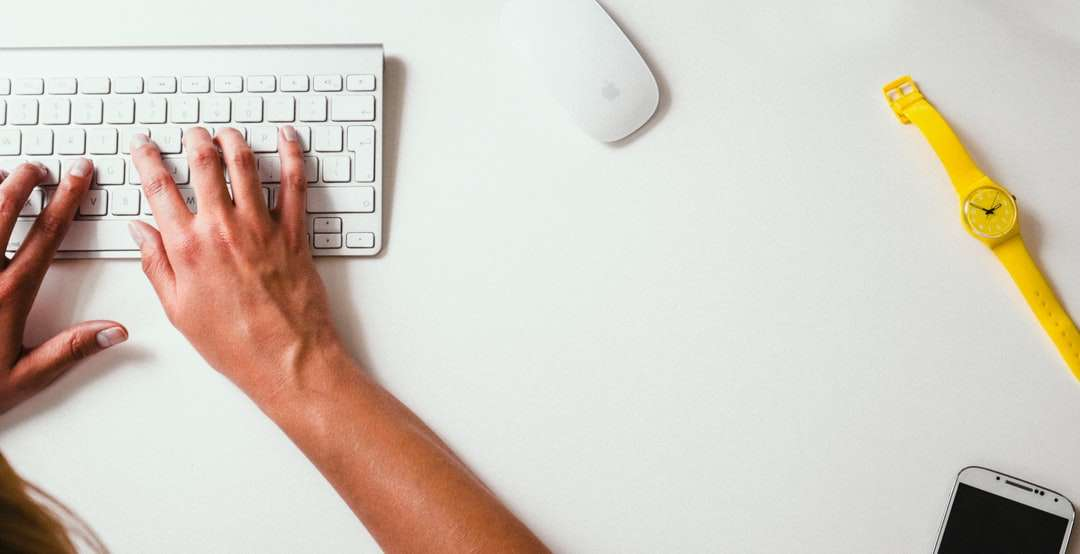
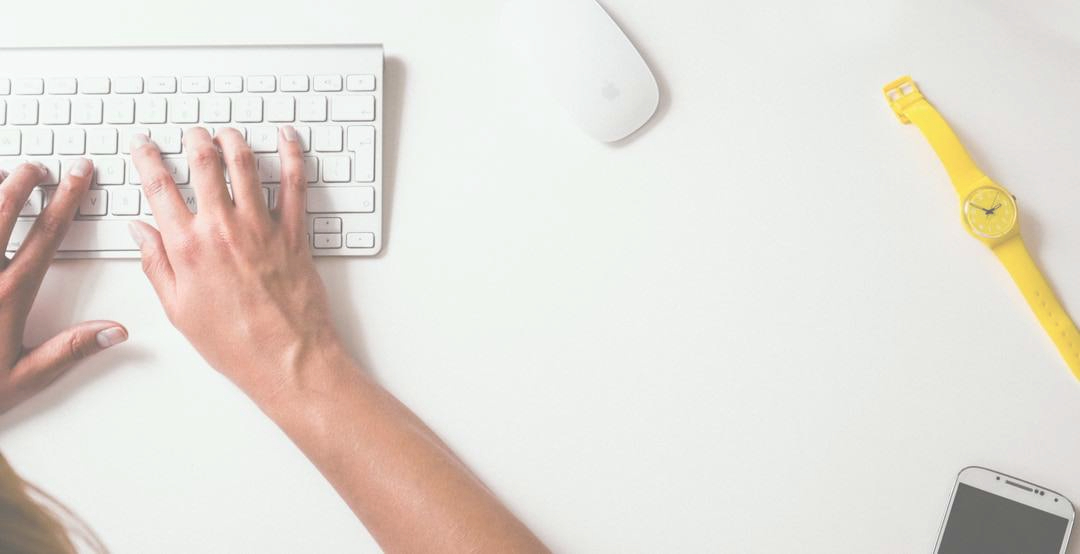
cambios en la estructura del grid de la page nosotros mas cambios en el css y cambio en la imagen de fondo de la page contacto

diff --git a/css/style.css b/css/style.css
@@ -331,7 +331,6 @@ h3 {
 .conteiner-contact {
     background-image: url(../img/contactanos.jpg);
     background-size: cover;
-    opacity: 0.8;
     width: 100%;
     height: 100%;
 }
@@ -579,44 +578,27 @@ td {
 
 /*Page Novedades*/
 
-.novedades-tittle{
-    background-color: #F0F0F0;
-    display: flex;
-    justify-content: center;
-    padding: 2rem 0;
-    box-shadow: inset 0 0 15px 0 #aaadaf;
-}
-
 .novedades {
     display: grid;
     grid-template-columns: repeat(2, 1fr);
-    grid-template-rows: repeat(2, 1fr);
+    grid-template-rows: 4rem 1fr 1fr;
     background-image: url(../img/novedadesfondo.jpg);
 }
 
+.novedades-rotulo{
+    background-color: #F5F5F5;
+    border-radius: 10px;
+    padding: 0.5rem 1rem;
+}
+
+.novedades-tittle{
+    grid-area: 1 / 1 / 2 / 3; 
+    display: flex;
+    justify-content: center;
+    padding: 2rem 0;
+}
+
 .novedades-item1{
-    grid-area: 1 / 1 / 2 / 2; 
-    display: grid;
-    justify-content: center;
-    padding: 1rem 0;
-    background-color: white;
-    margin: 5rem;
-    border-radius: 10px;
-    border: 1px solid white;
-}
-
-.novedades-item2{
-    grid-area: 1 / 2 / 2 / 3;
-    display: grid;
-    justify-content: center;
-    padding: 1rem 0;
-    margin: 5rem;
-    background-color: white;
-    border-radius: 10px;
-    border: 1px solid white;
-}
-
-.novedades-item3{
     grid-area: 2 / 1 / 3 / 2;
     display: grid;
     justify-content: center;
@@ -627,8 +609,30 @@ td {
     border: 1px solid white;
 }
 
-.novedades-item4{
+.novedades-item2{
     grid-area: 2 / 2 / 3 / 3;
+    display: grid;
+    justify-content: center;
+    padding: 1rem 0;
+    margin: 5rem;
+    background-color: white;
+    border-radius: 10px;
+    border: 1px solid white;
+}
+
+.novedades-item3{
+    grid-area: 3 / 1 / 4 / 2; 
+    display: grid;
+    justify-content: center;
+    padding: 1rem 0;
+    background-color: white;
+    margin: 5rem;
+    border-radius: 10px;
+    border: 1px solid white;
+}
+
+.novedades-item4{
+    grid-area: 3 / 2 / 4 / 3;
     display: grid;
     justify-content: center;
     padding: 1rem 0;
@@ -656,3 +660,8 @@ td {
     justify-content: center;
     font-size: 30px;
 }
+
+/*Medias Queries*/
+
+/*Index*/
+

diff --git a/pages/nosotros.html b/pages/nosotros.html
@@ -64,13 +64,11 @@
 
     <!--Main section-->
 
-    <section class="novedades-tittle">
-        <div>
-            <h1>Novedades</h1>
-        </div>
-    </section>
-
     <section class="novedades">
+
+        <div class="novedades-tittle">
+            <h1><span class="novedades-rotulo">Novedades</span></h1>
+        </div>
 
         <div class="novedades-item1">
             <figure class="novedades-item-img">
